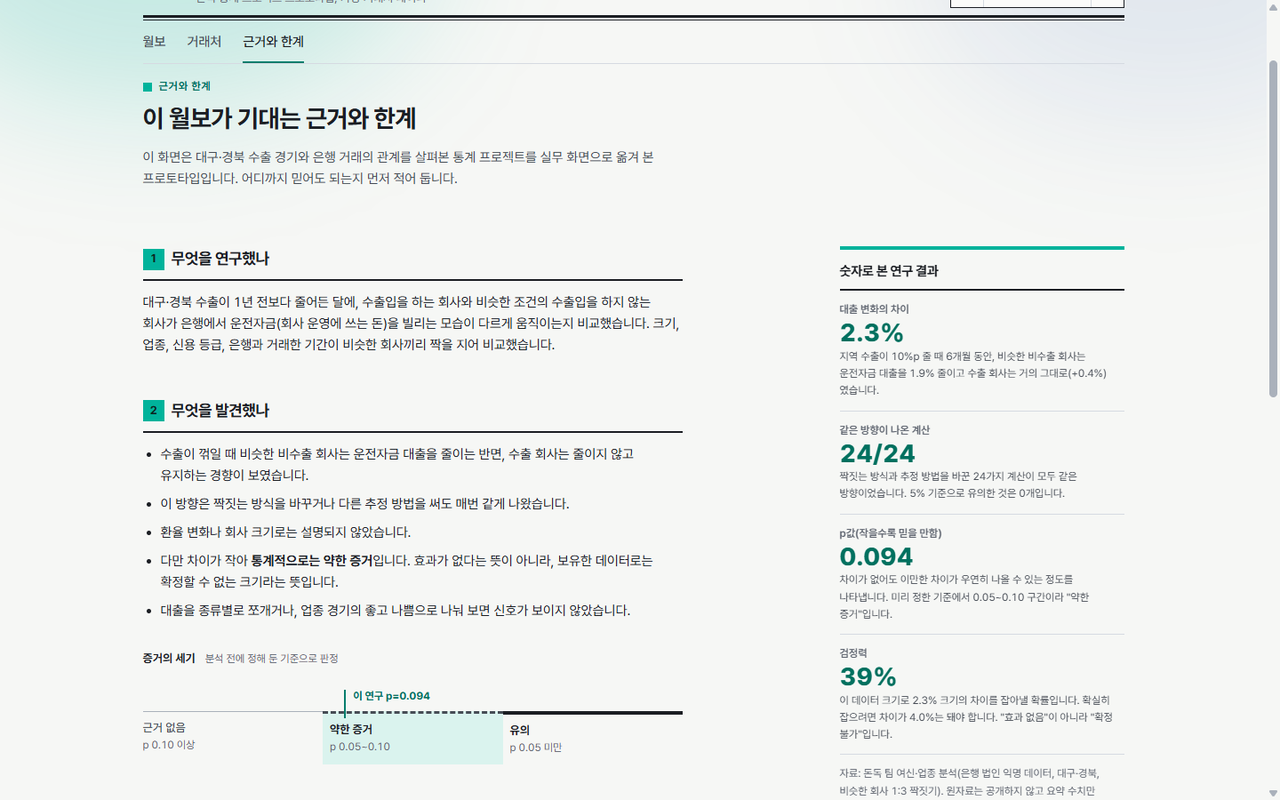
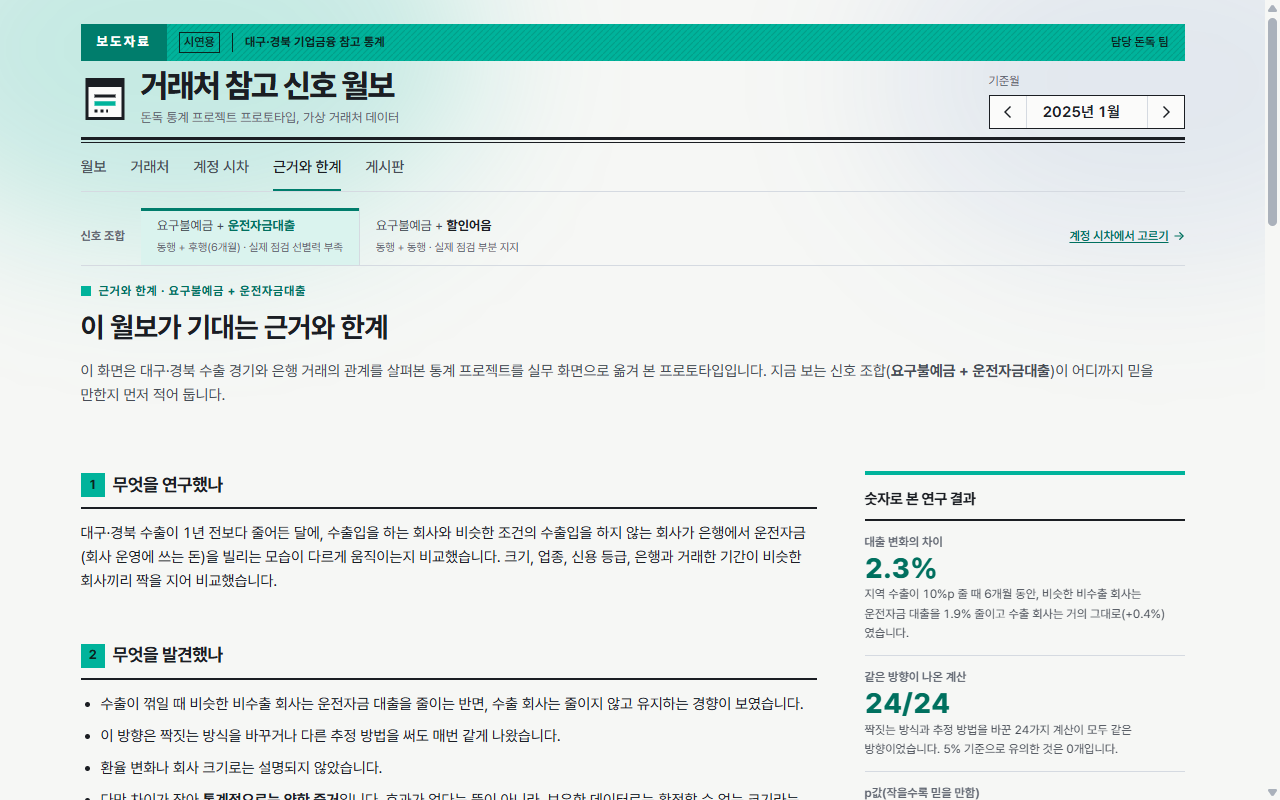
docs: README 화면 사진을 현재 화면으로 다시 찍고 신호 조합·쪽 넘김·게시판 설명 추가
- 기존 사진 8장을 조합 고르기·쪽 넘김이 들어간 현재 화면으로 교체
- 새 사진: 같은 달 두 조합 비교, 조합 카드, 쪽 넘김, 할인어음 조합 근거와 한계, 게시판
- 거래처 상세 사실표를 다섯 칸 한 줄로(할인어음 칸이 추가되며 줄바꿈되던 것 수정)
- DESIGN.md에 신호 조합 줄, 쪽 넘김, 조합 카드 추가

diff --git a/src/styles/app.css b/src/styles/app.css
@@ -1226,9 +1226,10 @@ main .prose h2::before {
   font-size: var(--t-sm);
 }
 
+/* 지역·업종·수출 여부·할인어음·고객 등급 다섯 칸을 한 줄에 */
 .facts {
   display: grid;
-  grid-template-columns: repeat(4, minmax(0, 1fr));
+  grid-template-columns: repeat(5, minmax(0, 1fr));
   margin: var(--s-4) 0 0;
   border-top: var(--rule-heavy) solid var(--ink);
   border-bottom: var(--rule-thin) solid var(--rule);

diff --git a/README.md b/README.md
@@ -18,46 +18,74 @@
 
 ## 화면 둘러보기
 
+사진은 모두 배포 화면(가상 거래처)입니다.
+
 ### 1. 월보
 
-기준월을 고르면 한 줄 요지, 대구·경북 수출 증감표와 막대, 살펴볼 거래처, 기준에 가까운 거래처가 차례로 나옵니다. 주소 끝의 `?m=YYYYMM`에 기준월이, `&c=bill`에 신호 조합(할인어음)이 담겨, 주소를 공유하면 같은 화면이 열립니다. 머리 아래 "신호 조합" 줄에서 조합을 바꿀 수 있습니다.
+기준월을 고르면 한 줄 요지, 대구·경북 수출 증감표와 막대, 살펴볼 거래처, 기준에 가까운 거래처가 차례로 나옵니다(맨 위 사진). 주소 끝의 `?m=YYYYMM`에 기준월이, `&c=bill`에 신호 조합이 담겨, 주소를 공유하면 같은 화면이 열립니다.
 
-### 2. 근거 잇기
+### 2. 신호 조합 고르기
+
+머리 아래 "신호 조합" 줄이나 계정 시차 화면에서 요구불예금 잔액에 짝지을 계정(운전자금대출 또는 할인어음)을 고르면 월보·거래처·거래처 상세·근거와 한계가 모두 그 조합으로 다시 계산됩니다. 조합을 바꿔도 기준월은 그대로라 같은 달을 두 조합으로 견줘 볼 수 있습니다. 아래는 2023년 12월, 같은 거래처를 두 조합으로 본 모습입니다(조건 3과 표 칸이 바뀜).
+
+<p>
+  <img src="docs/images/combo-loan.png" alt="요구불예금 + 운전자금대출 조합의 살펴볼 거래처" width="49%">
+  <img src="docs/images/combo-bill.png" alt="요구불예금 + 할인어음 조합의 살펴볼 거래처" width="49%">
+</p>
+
+계정 시차 화면의 "신호 조합 고르기"에는 두 조합을 실제 은행 데이터로 점검한 결과를 나란히 둡니다. 조합은 점검한 두 가지만 둡니다(계정을 이것저것 붙여 잘 맞는 것을 고르면 과적합).
+
+![신호 조합 고르기 카드](docs/images/combo-cards.png)
+
+### 3. 근거 잇기
 
 살펴볼 거래처의 "근거"를 펼치면 세 조건(지역 수출 감소 → 통장 잔고 감소 → 대출 유지 또는 할인어음 증가)이 한 줄의 괘선으로 이어지며 그어집니다. 표 안의 작은 선은 최근 12개월 통장 잔고 흐름이고, 판정에 쓰는 마지막 3개월을 주황으로 표시합니다.
 
 ![근거를 펼친 살펴볼 거래처 표](docs/images/trace.png)
 
-### 3. 거래처 목록
+### 4. 거래처 목록
 
-80곳의 이번 달 상태를 한 번에 봅니다. 위쪽 개수 줄(전체, 충족, 기준 근접, 미충족, 해당 없음)을 누르면 그 상태만 걸러지고, 지역·업종·수출 여부로도 좁힐 수 있습니다. 목록은 50곳씩, 월보의 살펴볼 거래처는 20곳씩 쪽을 넘겨 봅니다(걸러 보기 조건·기준월·조합이 바뀌면 첫 쪽으로).
+80곳의 이번 달 상태를 한 번에 봅니다. 위쪽 개수 줄(전체, 충족, 기준 근접, 미충족, 해당 없음)을 누르면 그 상태만 걸러지고, 지역·업종·수출 여부로도 좁힐 수 있습니다.
 
 ![거래처 목록](docs/images/firms.png)
 
-### 4. 거래처 상세
+목록은 50곳씩, 월보의 살펴볼 거래처는 20곳씩 쪽을 넘겨 봅니다. 걸러 보기 조건·기준월·조합이 바뀌면 첫 쪽으로 돌아갑니다(내부 시연의 실제 데이터는 한 달에 수백 곳이라 넣은 기능).
 
-지역·업종·수출 여부·등급을 네 칸 표로, 기준월 판정 근거, 연도별 신호 이력, 지역 수출·통장 잔고·짝 계정(대출 또는 할인어음)·수출 실적 그래프를 보여 줍니다. 그래프를 누르면 크게 볼 수 있습니다(Esc나 바깥 클릭으로 닫힘).
+![쪽 넘김](docs/images/pager.png)
+
+### 5. 거래처 상세
+
+지역·업종·수출 여부·할인어음·고객 등급을 다섯 칸 표로, 기준월 판정 근거, 연도별 신호 이력, 지역 수출·통장 잔고·짝 계정(대출 또는 할인어음)·수출 실적 그래프를 보여 줍니다. 그래프를 누르면 크게 볼 수 있습니다(Esc나 바깥 클릭으로 닫힘).
 
 <p>
   <img src="docs/images/detail.png" alt="거래처 상세" width="49%">
   <img src="docs/images/chart-modal.png" alt="그래프 크게 보기" width="49%">
 </p>
 
-### 5. 계정 시차
+### 6. 계정 시차
 
-수출이 꺾이면 은행 계정이 언제 움직이는지를 수출 흐름 여섯 단계(원자재 확보 → 생산·납품 → 선적 → 대금 회수 → 부족 대응 → 차입·투자 조정) 위에 놓았습니다. 선적(지역 수출통계 기록 시점)보다 먼저 움직이는 계정이 조기경보 후보입니다. 계정마다 예상 시차와 팀 중간보고서 결과를 같은 선 모양 규칙(일치, 예상과 다름·보류, 미검정, 관측 창 밖)으로 대조합니다. 지도에서 운전자금대출이나 할인어음을 누르면 요구불예금 잔액과 짝지은 신호 조합이 바뀌고, 아래 "신호 조합 고르기"에서 두 조합의 실제 데이터 점검 결과를 나란히 봅니다. 예상 시차는 팀 분석 문서, 결과는 중간보고서 수치이며 이 화면에서 다시 계산하지 않았습니다.
+수출이 꺾이면 은행 계정이 언제 움직이는지를 수출 흐름 여섯 단계(원자재 확보 → 생산·납품 → 선적 → 대금 회수 → 부족 대응 → 차입·투자 조정) 위에 놓았습니다. 선적(지역 수출통계 기록 시점)보다 먼저 움직이는 계정이 조기경보 후보입니다. 계정마다 예상 시차와 팀 중간보고서 결과를 같은 선 모양 규칙(일치, 예상과 다름·보류, 미검정, 관측 창 밖)으로 대조합니다. 운전자금대출·할인어음 칸의 버튼을 누르면 신호 조합이 바뀝니다. 예상 시차는 팀 분석 문서, 결과는 중간보고서 수치이며 이 화면에서 다시 계산하지 않았습니다.
 
 ![계정 시차 지도](docs/images/timing.png)
 
-### 6. 근거와 한계
+### 7. 근거와 한계
 
-고른 조합에 맞춰 근거와 점검 결과가 바뀝니다. 운전자금 조합은 연구의 핵심 숫자(대출 변화 차이 2.3%, 같은 방향 24/24, p값 0.094, 검정력 39%)와 "약한 증거" 눈금을, 할인어음 조합은 팀 시차 분석에서 나온 배경과 실행 전에 기준을 고정한 조합 점검(1.27배, +6.5%p, 57곳, 1개월 기준 0/2)을 보여 줍니다.
+고른 조합에 맞춰 근거와 점검 결과가 바뀝니다. 운전자금 조합(왼쪽)은 연구의 핵심 숫자(대출 변화 차이 2.3%, 같은 방향 24/24, p값 0.094, 검정력 39%)와 "약한 증거" 눈금을, 할인어음 조합(오른쪽)은 실행 전에 기준을 고정한 조합 점검표와 숫자(1.27배, +6.5%p, 57곳, 1개월 기준 0/2)를 보여 줍니다. 점검표의 판정은 선 모양으로 표시합니다(통과 굵은 실선, 미달 가는 선).
 
-![근거와 한계](docs/images/evidence.png)
+<p>
+  <img src="docs/images/evidence.png" alt="근거와 한계, 운전자금 조합" width="49%">
+  <img src="docs/images/evidence-bill.png" alt="근거와 한계, 할인어음 조합의 점검 결과" width="49%">
+</p>
 
-### 7. 휴대폰
+### 8. 게시판
 
-폭이 좁으면 제목, 기준월, 요지 순으로 쌓이고, 표는 칸을 줄이거나 옆으로 밀어 봅니다.
+팀원이 의견을 남기는 곳입니다. GitHub 계정으로 로그인해 글을 쓰고, 글은 이 저장소의 Discussions에 저장됩니다(giscus). 주제는 자유 의견, 분석 결과, 화면 개선 제안 세 가지이고, 공개 게시판이라 은행 데이터나 내부 시연 화면 캡처는 올리지 않습니다.
+
+![팀 게시판](docs/images/board.png)
+
+### 9. 휴대폰
+
+폭이 좁으면 제목, 기준월, 신호 조합, 요지 순으로 쌓이고, 표는 칸을 줄이거나 옆으로 밀어 봅니다.
 
 <img src="docs/images/mobile.png" alt="휴대폰 화면" width="300">
 

diff --git a/DESIGN.md b/DESIGN.md
@@ -177,7 +177,7 @@ components:
 - 간격 단계 4 · 8 · 12 · 16 · 24 · 32 · 48 · 64px.
 - 월보 첫 화면: 머리 → 한 줄 요지 → 지역 수출(표 7 : 막대 5) → 살펴볼 거래처. 1440×900에서 살펴볼 거래처 첫 행까지 보이게 유지한다.
 - 근거와 한계: 본문 + 오른쪽 20rem 핵심 숫자 열(1024px 이상), 좁으면 핵심 숫자가 제목 바로 아래로.
-- 거래처 상세: 네 칸 사실표, 그래프는 1024px 이상에서 2열.
+- 거래처 상세: 다섯 칸 사실표(지역·업종·수출 여부·할인어음·고객 등급), 그래프는 1024px 이상에서 2열.
 - 구간: 640px(폰), 860px(지역 수출 1열), 1024px(2열 전환). 폰에서 표는 칸을 줄이고, 넘치면 표 영역만 옆으로 밀며 안내 문구를 띄운다.
 
 ## Elevation & Depth
@@ -212,6 +212,12 @@ components:
 - 필터(구간 선택): 중간 괘선 테두리, 선택은 짙은 민트 바탕 흰 글자.
 - 상태 개수 줄: 다섯 칸, 선택 칸은 민트 물 바탕과 위쪽 4px 짙은 민트 선.
 - "근거" 펼치기: 옅은 바탕, 중간 괘선 테두리, 펼치면 짙은 민트 테두리와 화살표 뒤집힘.
+- 신호 조합 줄: 머리 아래 한 줄. 두 조합 버튼(계정 이름 + 시차·실제 점검 판정 한 줄), 고른 쪽은 민트 물 바탕과 위쪽 3px 짙은 민트 선. 오른쪽에 "계정 시차에서 고르기" 링크. 게시판·내부 시연·계정 시차 화면에서는 숨김.
+- 쪽 넘김: 표 아래 왼쪽에 "1–50 / 769곳", 오른쪽에 화살표와 쪽 번호(처음·끝·현재 앞뒤, 사이는 줄임표). 현재 쪽은 아래 3px 짙은 민트 선.
+
+### 조합 카드(계정 시차)
+- 위쪽 2px 먹선(고른 카드는 4px 짙은 민트 선), 계정 이름, 시차·대상, 실제 점검 판정. 사전 기준별 행은 통과면 굵은 실선, 미달·문제 있음이면 가는 선으로 밑줄. 기준을 미리 정하지 않은 점검은 "미달" 대신 "문제 있음".
+- 계정 지도에서 고를 수 있는 계정(운전자금대출, 할인어음)에는 작은 버튼을 달고, 쓰이는 계정은 왼쪽에 옅은 주황 띠와 "규칙에 사용" 표지.
 
 ### 지역 칩
 - 대구 청색, 경북 자주 바탕에 흰 글자(대비 6.2:1 안팎), 모서리 0.
